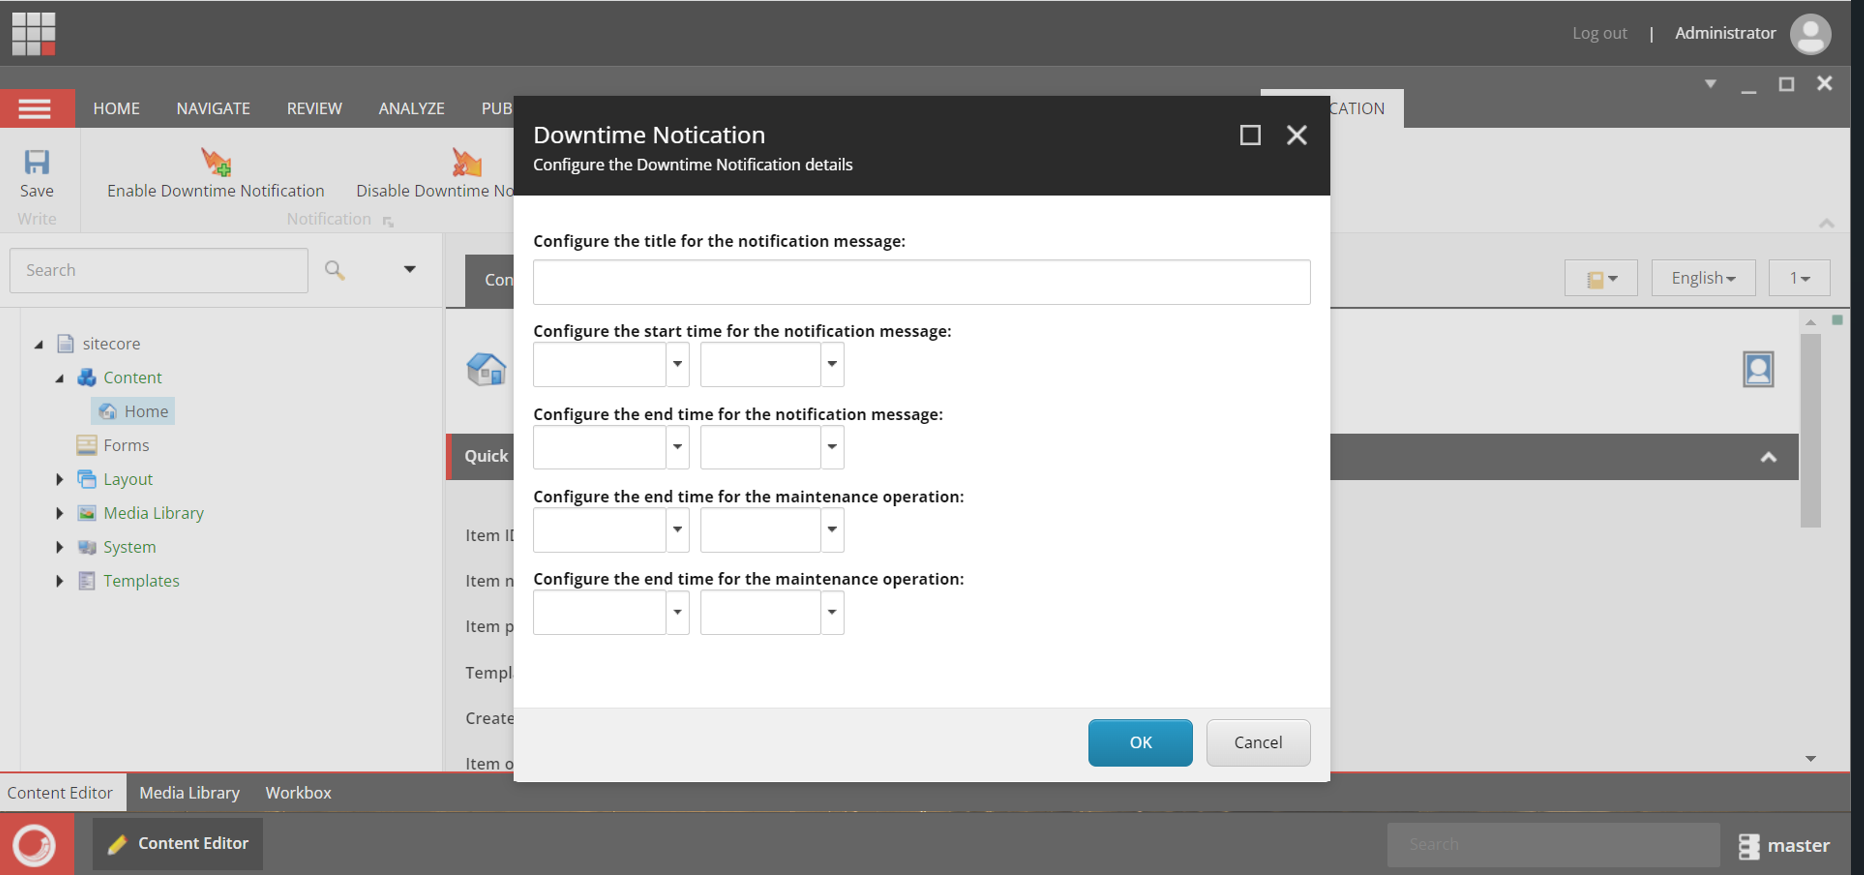
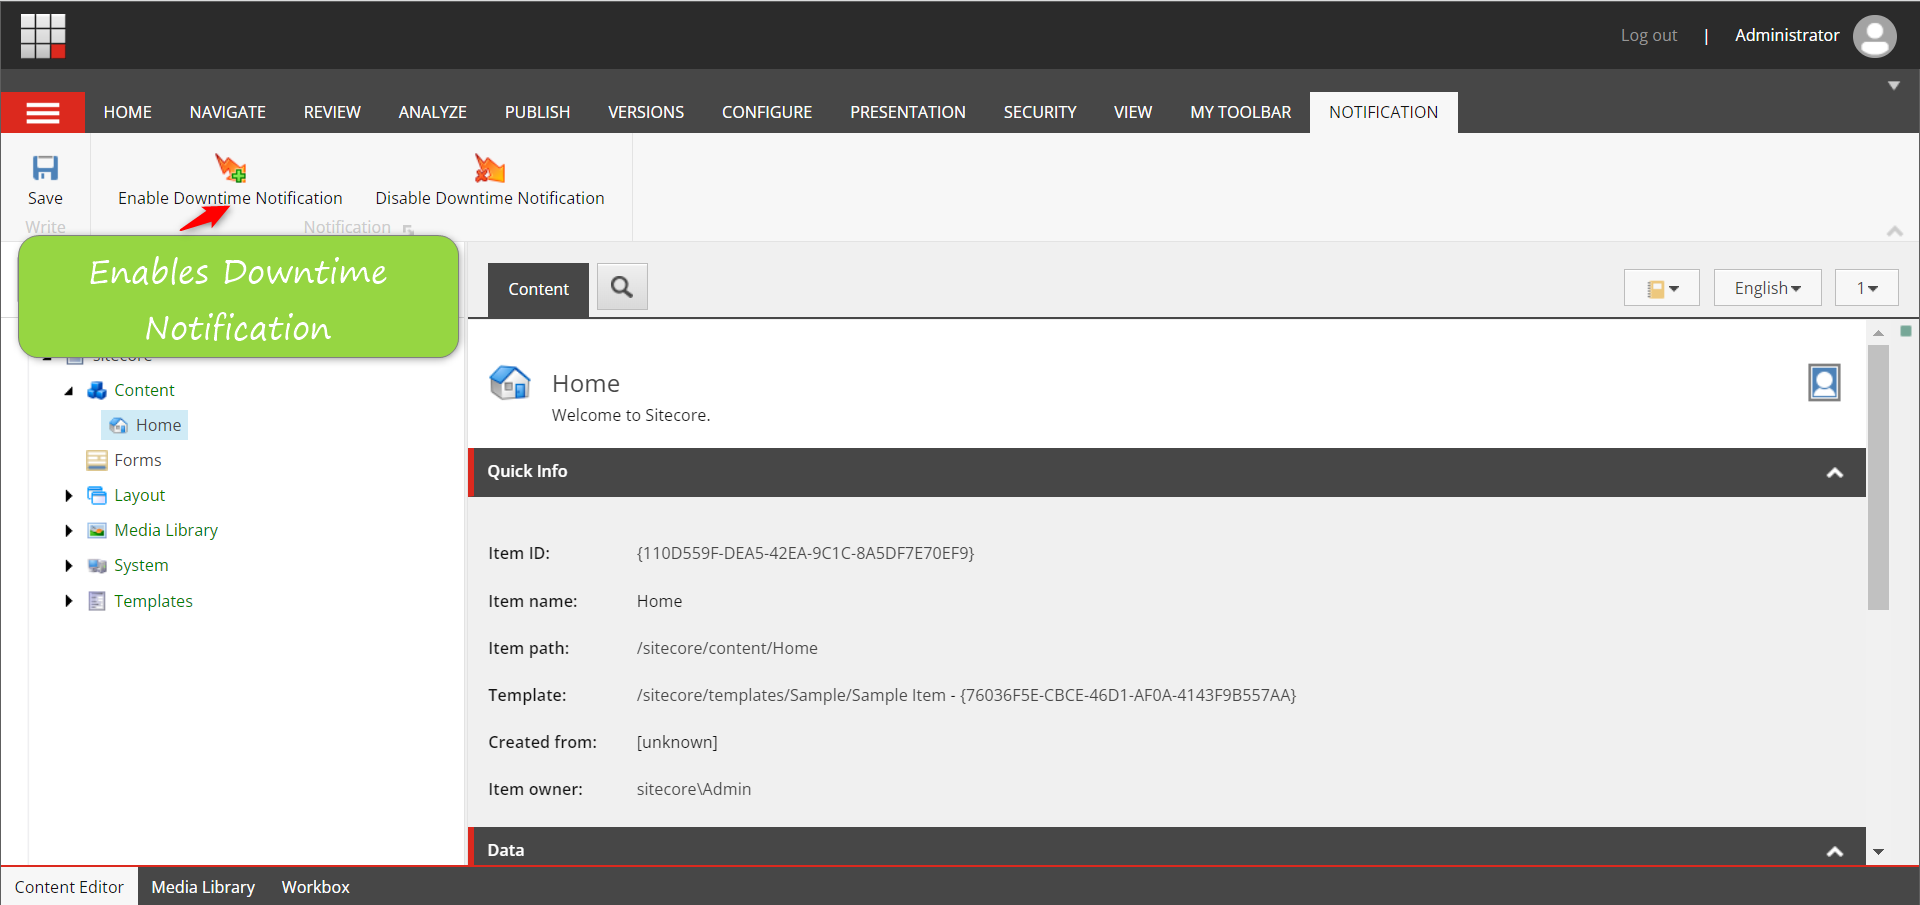
updated structure for popup

diff --git a/README.md b/README.md
@@ -26,7 +26,7 @@
 
 -   Sitecore 10 or above
 -   SXA
--   Sitecore CLI
+-   Sitecore CLI (Required for Content Serialization)
 
 ## Installation instructions
 
@@ -42,11 +42,11 @@ Using the package installation wizard, install the Downtime Notification Module 
 
 # Usage instructions
 
-1.To set Notification Message click on the "Notification" from the ribbon:
+1.To set the Notification Message, click on the "Notification" CTA from the ribbon:
 
 ![alt text](image-2.png)
 
-2.To enable the downtime notifications click on "Enable Downtime Notification", this will open up pop up for you as shown.
+2.Next, to enable the downtime notifications click on "Enable Downtime Notification", this will open up pop up for you as shown.
 
 ![alt text](image-3.png)
 
@@ -54,11 +54,11 @@ fill up this details as per your scheduled deployment activity.
 
 ![alt text](image-6.png)
 
-once details are filled click OK. User will be notified with the confirmation message on succesfull cretion of notification.
+once details are filled click OK. User will be notified with the confirmation message on successfull creation of notification.
 
 ![alt text](image-7.png)
 
-3. As per details set for the notification message CM users will be shown a notification message on content editor as well as experience editor.
+3. As per details set for the notification message, content authoring users will be shown a notification message on content editor as well as experience editor.
 
     ![alt text](image-4.png)
 
@@ -87,6 +87,7 @@ on successful removal of notification user will be shown success popup
 
 3. Files
 
-    - App_config
-    - bin
-    - sitecore
+    - App_config/Include/Feature/z.Feature.Downtime.config
+    - bin/DowntimeNotification.dll
+    - sitecore/shell/Applications/Content Manager/Dialogs/DowntimeNotification/DowntimeNotification.xml
+	- sitecore/shell/Applications/Content Manager/Dialogs/notification.js
